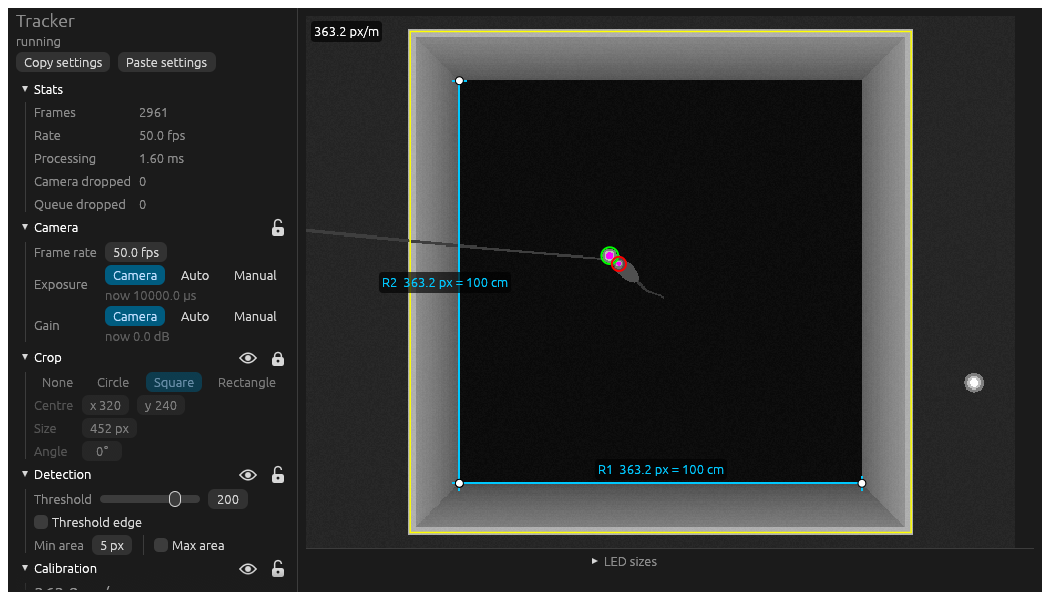
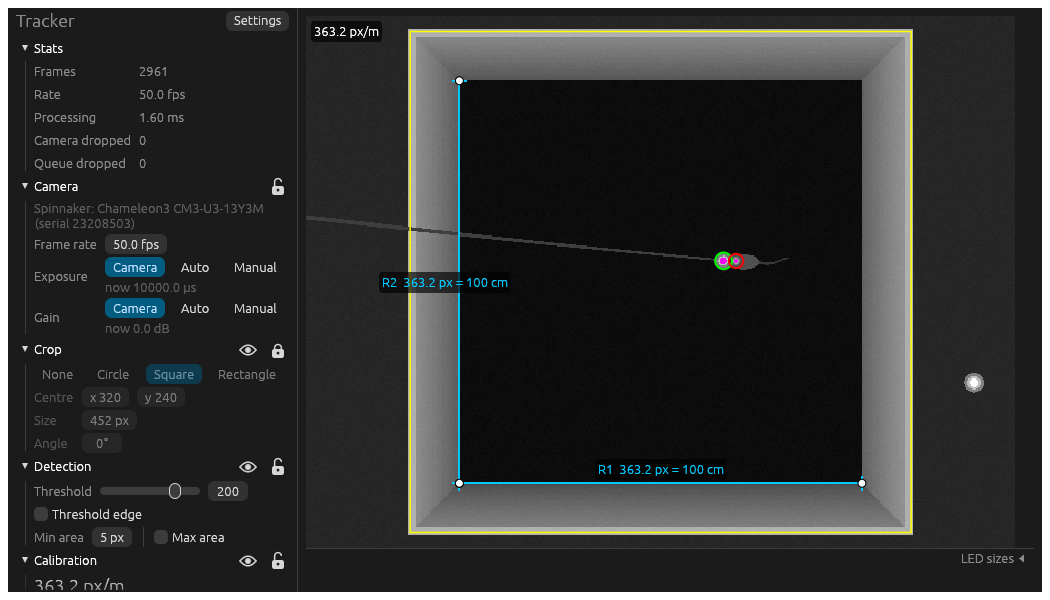
Tidier header: status only when not running, Settings menu, undoable paste
- Status is structured (starting / running / problem). The window says
  nothing while running; otherwise a short note follows the title, amber
  for problems (e.g. waiting for camera). The Open Ephys editor's status
  line still reads "running: <camera>".
- The camera model/serial moves to a faint line in the Camera section
- Copy and Paste live in a Settings menu at the right of the title row
- A paste applies immediately and can be undone for 30 s (not while
  recording); interaction test clicks Undo

diff --git a/tracker/src/gui/mod.rs b/tracker/src/gui/mod.rs
@@ -12,7 +12,7 @@ use eframe::egui::{self, RichText};
 
 use crate::camera::Range;
 use crate::config::{Control, Crop, Overlay, PipelineConfig, Ruler, TrackerState};
-use crate::tracker::Shared;
+use crate::tracker::{Shared, Status};
 
 /// Used for sizing new shapes before the first frame has arrived.
 const FALLBACK_IMAGE_SIZE: [f32; 2] = [640.0, 480.0];
@@ -79,9 +79,19 @@ struct TrackerApp {
     video: view::VideoView,
     /// The frame rate warning is shown until this time (egui seconds), with the rate that triggered it.
     rate_warning: Option<(f64, f64)>,
-    /// Result of the last copy/paste of settings, shown until this time (egui seconds).
-    clipboard_note: Option<(f64, String)>,
+    clipboard_note: Option<ClipboardNote>,
 }
+
+/// Result of the last copy/paste of settings, shown until `until` (egui seconds).
+struct ClipboardNote {
+    until: f64,
+    text: String,
+    /// The settings from before a paste, to restore with Undo.
+    undo: Option<TrackerState>,
+}
+
+/// How long a paste can be undone.
+const UNDO_SECONDS: f64 = 30.0;
 
 /// The frame rate warning to show at `now`: (shown until, triggering rate), renewed whenever the measured
 /// rate (0 = not measured yet) is off by more than `RATE_TOLERANCE`, and held for `RATE_WARNING_HOLD`.
@@ -134,10 +144,22 @@ impl TrackerApp {
     }
 
     fn controls(&mut self, ui: &mut egui::Ui) {
-        ui.heading("Tracker");
-        ui.label(self.shared.status.lock().unwrap().as_str());
         let recording = self.shared.recording.load(Ordering::Relaxed);
-        self.copy_paste(ui, recording);
+        ui.horizontal(|ui| {
+            ui.heading("Tracker");
+            // Nothing to say while running; otherwise a short note on what's happening.
+            match &*self.shared.status.lock().unwrap() {
+                Status::Running => {}
+                Status::Starting => {
+                    ui.weak("(starting)");
+                }
+                Status::Problem(problem) => {
+                    ui.label(RichText::new(format!("({problem})")).small().color(strip::AMBER));
+                }
+            }
+            ui.with_layout(egui::Layout::right_to_left(egui::Align::Center), |ui| self.settings_menu(ui, recording));
+        });
+        self.clipboard_note(ui, recording);
         if recording {
             let red = egui::Color32::from_rgb(230, 70, 70);
             ui.horizontal(|ui| {
@@ -187,38 +209,54 @@ impl TrackerApp {
     }
 
     /// Copy/paste of all the window's settings as JSON, e.g. to reuse them in another saved signal chain.
-    fn copy_paste(&mut self, ui: &mut egui::Ui, recording: bool) {
+    fn settings_menu(&mut self, ui: &mut egui::Ui, recording: bool) {
         let now = ui.input(|i| i.time);
-        ui.horizontal(|ui| {
-            if ui.button("Copy settings").on_hover_text("Copy all of these settings to the clipboard").clicked() {
+        ui.menu_button("Settings", |ui| {
+            if ui.button("Copy").on_hover_text("Copy all of the tracker settings to the clipboard").clicked() {
                 ui.ctx().copy_text(crate::config::export_settings(&self.state));
-                self.clipboard_note = Some((now + 4.0, "Settings copied.".into()));
+                self.clipboard_note = Some(ClipboardNote { until: now + 4.0, text: "Settings copied.".into(), undo: None });
             }
             let paste = ui
-                .add_enabled(!recording, egui::Button::new("Paste settings"))
-                .on_hover_text("Replace all of these settings with ones copied from another setup");
+                .add_enabled(!recording, egui::Button::new("Paste"))
+                .on_hover_text("Replace all of the tracker settings with ones copied from another setup (can be undone)");
             if paste.clicked() {
                 let result = arboard::Clipboard::new()
                     .and_then(|mut c| c.get_text())
                     .map_err(|_| "Couldn't read the clipboard.".to_string())
                     .and_then(|text| crate::config::import_settings(&text));
-                let note = match result {
+                self.clipboard_note = Some(match result {
                     Ok(pasted) => {
                         // The frame size belongs to the camera, not the settings.
-                        self.state = TrackerState { frame_size: self.state.frame_size, ..pasted };
-                        "Settings pasted.".to_string()
+                        let pasted = TrackerState { frame_size: self.state.frame_size, ..pasted };
+                        let previous = std::mem::replace(&mut self.state, pasted);
+                        ClipboardNote { until: now + UNDO_SECONDS, text: "Settings pasted.".into(), undo: Some(previous) }
                     }
-                    Err(e) => e,
-                };
-                self.clipboard_note = Some((now + 6.0, note));
+                    Err(e) => ClipboardNote { until: now + 6.0, text: e, undo: None },
+                });
             }
         });
-        if let Some((until, note)) = &self.clipboard_note {
-            if now < *until {
-                ui.weak(note.as_str());
-                ui.ctx().request_repaint_after(std::time::Duration::from_secs_f64(until - now));
-            } else {
-                self.clipboard_note = None;
+    }
+
+    /// The result of the last copy/paste, briefly, with Undo after a paste.
+    fn clipboard_note(&mut self, ui: &mut egui::Ui, recording: bool) {
+        let now = ui.input(|i| i.time);
+        let Some(note) = &self.clipboard_note else { return };
+        if now >= note.until {
+            self.clipboard_note = None;
+            return;
+        }
+        ui.ctx().request_repaint_after(std::time::Duration::from_secs_f64(note.until - now));
+        let mut undo = false;
+        ui.horizontal(|ui| {
+            ui.weak(note.text.as_str());
+            if note.undo.is_some() {
+                undo = ui.add_enabled(!recording, egui::Button::new("Undo").small()).clicked();
+            }
+        });
+        if undo {
+            if let Some(previous) = self.clipboard_note.take().and_then(|n| n.undo) {
+                self.state = previous;
+                self.clipboard_note = Some(ClipboardNote { until: now + 4.0, text: "Paste undone.".into(), undo: None });
             }
         }
     }
@@ -241,6 +279,10 @@ impl TrackerApp {
     }
 
     fn camera(&mut self, ui: &mut egui::Ui) {
+        let description = self.shared.camera_description.lock().unwrap().clone();
+        if !description.is_empty() {
+            ui.weak(description);
+        }
         if self.state.camera_locked {
             ui.disable();
         }
@@ -672,6 +714,29 @@ mod tests {
     }
 
     #[test]
+    fn paste_can_be_undone() {
+        use egui_kittest::kittest::Queryable as _;
+        let mut app = TrackerApp::new(Arc::new(Shared::default()), None);
+        let before = app.state.clone();
+        let pasted = TrackerState { pipeline: PipelineConfig { threshold: 42, ..Default::default() }, ..before.clone() };
+        // As left by a paste: the new settings applied, the old ones kept for Undo.
+        app.state = pasted;
+        app.clipboard_note = Some(ClipboardNote { until: 1000.0, text: "Settings pasted.".into(), undo: Some(before.clone()) });
+
+        let mut harness = egui_kittest::Harness::builder().with_size([400.0, 300.0]).build_ui_state(
+            |ui, app: &mut TrackerApp| {
+                egui::ScrollArea::vertical().show(ui, |ui| app.controls(ui));
+            },
+            app,
+        );
+        harness.run();
+        harness.get_by_label("Undo").click();
+        harness.run();
+        assert_eq!(harness.state().state, before);
+        assert_eq!(harness.state().clipboard_note.as_ref().unwrap().text, "Paste undone.");
+    }
+
+    #[test]
     fn detected_rates_are_tidied() {
         assert_eq!(snap_frame_rate(30.004), 30.0);
         assert_eq!(snap_frame_rate(29.9701), 29.97);
@@ -751,7 +816,8 @@ mod tests {
             state: state.into(),
             ..Default::default()
         });
-        *shared.status.lock().unwrap() = "running".into();
+        *shared.status.lock().unwrap() = Status::Running;
+        *shared.camera_description.lock().unwrap() = "Spinnaker: Chameleon3 CM3-U3-13Y3M (serial 23208503)".into();
         *shared.stats.lock().unwrap() = crate::tracker::Stats { frames: 2961, fps: 50.0, process_ms: 1.6, ..Default::default() };
         shared.state.lock().unwrap().crop_overlay.locked = true;
         *shared.latest.lock().unwrap() = Some(Arc::new(View { frame, blobs }));

diff --git a/tracker/src/tracker.rs b/tracker/src/tracker.rs
@@ -19,6 +19,16 @@ pub const LED_HISTORY: f64 = 10.0;
 /// Enough for tens of seconds at typical frame rates if Open Ephys stalls.
 const SAMPLE_QUEUE_LEN: usize = 4096;
 
+#[derive(Clone, Debug, Default, PartialEq)]
+pub enum Status {
+    /// Opening the camera.
+    #[default]
+    Starting,
+    Running,
+    /// Something's wrong (e.g. no camera); the tracker keeps retrying where it can.
+    Problem(String),
+}
+
 /// The most recent processed frame, for display.
 pub struct View {
     pub frame: Frame,
@@ -44,7 +54,9 @@ pub struct Shared {
     /// Written by the GUI; the pipeline part is read by the capture thread every frame.
     pub state: Mutex<TrackerState>,
     pub latest: Mutex<Option<Arc<View>>>,
-    pub status: Mutex<String>,
+    pub status: Mutex<Status>,
+    /// The open camera, e.g. its model and serial number; empty if it doesn't say.
+    pub camera_description: Mutex<String>,
     pub stats: Mutex<Stats>,
     pub stop: AtomicBool,
     /// The frame rate this acquisition runs at (the stream's declared sample rate). Changing the frame rate
@@ -77,8 +89,24 @@ impl Shared {
         state
     }
 
-    pub fn set_status(&self, status: impl Into<String>) {
-        *self.status.lock().unwrap() = status.into();
+    pub fn set_status(&self, status: Status) {
+        *self.status.lock().unwrap() = status;
+    }
+
+    pub fn set_problem(&self, problem: impl Into<String>) {
+        self.set_status(Status::Problem(problem.into()));
+    }
+
+    /// One line for the Open Ephys editor, e.g. "running: Spinnaker: Chameleon3 ... (serial ...)".
+    pub fn status_line(&self) -> String {
+        match &*self.status.lock().unwrap() {
+            Status::Starting => "starting".into(),
+            Status::Running => match self.camera_description.lock().unwrap().as_str() {
+                "" => "running".into(),
+                camera => format!("running: {camera}"),
+            },
+            Status::Problem(problem) => problem.clone(),
+        }
     }
 
     pub fn request_repaint(&self) {
@@ -112,7 +140,7 @@ impl Tracker {
         let tracker = Tracker { shared, samples: rx, thread: Some(thread) };
         if config.show_window {
             if let Err(e) = tracker.open_window() {
-                tracker.shared.set_status(format!("no window: {e}"));
+                tracker.shared.set_problem(format!("no window: {e}"));
             }
         }
         tracker
@@ -170,7 +198,7 @@ fn capture_loop(shared: &Shared, camera_config: &CameraConfig, tx: &Sender<Track
         let mut camera = match camera::open(camera_config, shared.active_frame_rate) {
             Ok(c) => c,
             Err(e) => {
-                shared.set_status(format!("waiting for camera: {e}"));
+                shared.set_problem(format!("waiting for camera: {e}"));
                 let retry_at = Instant::now() + Duration::from_millis(500);
                 while !stopping() && Instant::now() < retry_at {
                     std::thread::sleep(Duration::from_millis(20));
@@ -178,8 +206,8 @@ fn capture_loop(shared: &Shared, camera_config: &CameraConfig, tx: &Sender<Track
                 continue;
             }
         };
-        let description = camera.description();
-        shared.set_status(if description.is_empty() { "running".to_string() } else { format!("running: {description}") });
+        *shared.camera_description.lock().unwrap() = camera.description();
+        shared.set_status(Status::Running);
         *shared.controls.lock().unwrap() = camera.controls();
         *shared.camera_warnings.lock().unwrap() = camera.warnings();
         let mut last: Option<(u64, f64)> = None;
@@ -202,7 +230,7 @@ fn capture_loop(shared: &Shared, camera_config: &CameraConfig, tx: &Sender<Track
                 Ok(Some(f)) => f,
                 Ok(None) => continue,
                 Err(e) => {
-                    shared.set_status(format!("camera error, reconnecting: {e}"));
+                    shared.set_problem(format!("camera error, reconnecting: {e}"));
                     break;
                 }
             };

diff --git a/tracker/src/window.rs b/tracker/src/window.rs
@@ -48,7 +48,7 @@ pub fn open(shared: Arc<Shared>) -> Result<(), String> {
                             winit::platform::x11::EventLoopBuilderExtX11::with_any_thread(builder, true);
                         }));
                         if let Err(e) = crate::gui::run(shared.clone(), options) {
-                            shared.set_status(format!("window failed: {e}"));
+                            shared.set_problem(format!("window failed: {e}"));
                         }
                         shared.window_open.store(false, Ordering::SeqCst);
                     }

diff --git a/tracker/src/ffi.rs b/tracker/src/ffi.rs
@@ -77,7 +77,7 @@ pub unsafe extern "C" fn tracker_poll(
 #[no_mangle]
 pub unsafe extern "C" fn tracker_status(handle: *const TrackerHandle, buf: *mut c_char, len: usize) -> usize {
     guard(0, || {
-        let status = (*handle).0.shared().status.lock().unwrap().clone();
+        let status = (*handle).0.shared().status_line();
         write_str(&status, buf, len)
     })
 }

diff --git a/README.md b/README.md
@@ -44,9 +44,10 @@ While acquisition runs, a tracker window shows the live video with:
 The eye and padlock sit in each section's header. The padlock locks that section's controls and stops its
 overlay being dragged on the video. While Open Ephys is recording, all settings are locked.
 
-These settings are saved with the Open Ephys signal chain. **Copy settings** / **Paste settings** move
-them between setups, e.g. from one saved signal chain to another (Open Ephys has no way to copy part of a
-saved configuration). They're JSON tagged as tracker settings, so pasting anything else is refused. If you close the window during acquisition,
+These settings are saved with the Open Ephys signal chain. The **Settings** menu copies and pastes them,
+e.g. from one saved signal chain to another, since Open Ephys has no way to copy part of a saved
+configuration. They're JSON tagged as tracker settings, so pasting anything else is refused. A paste can
+be undone for 30 s. If you close the window during acquisition,
 **Open window** in the plugin's editor brings it back.
 
 > **macOS:** the tracker window can't open inside Open Ephys on macOS (only the main thread can create
